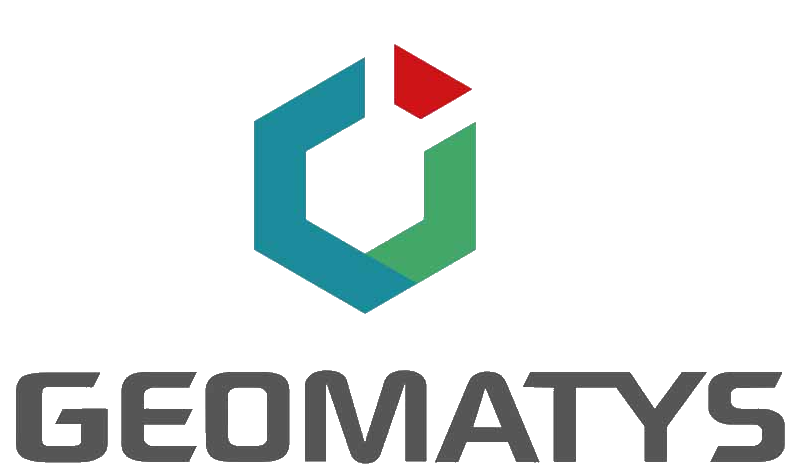
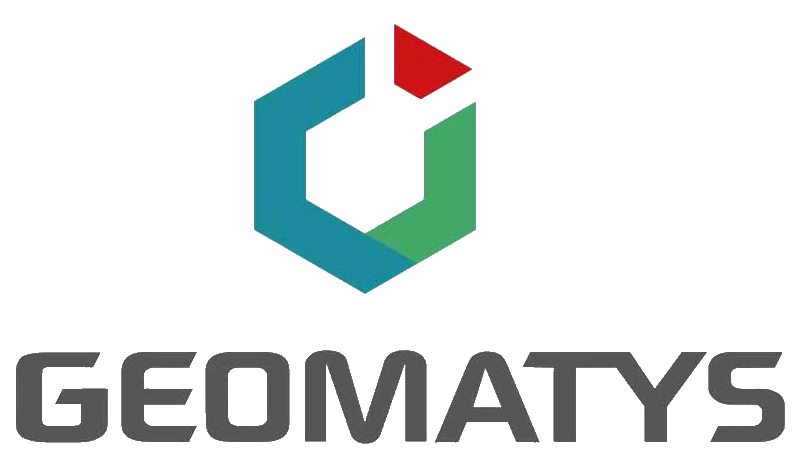
mini-fix: centrage d'une div (entre autres)

diff --git a/index.html b/index.html
@@ -35,7 +35,7 @@
   <main id="bg-acceuil">
     <div class="box extra-tp-margin">
       <h1 class="no-bt-margin">Portfolio 2024/2026 - Paulo Moreira</h1>
-      <span class="italic trans">dernière mise à jour le 24 octobre 2025</span>
+      <span class="italic trans">dernière mise à jour le 9 novembre 2025</span>
       <hr class="dashed">
       <div class="horizontal">
         <div>
@@ -59,15 +59,15 @@
       <hr class="dashed">
       <h2>Expérience Professionnelle</h2>
       <div class="horizontal job">
+        <a href="nuisance.html">
+          <p><b>Stage (principalement) en JS chez Geomatys</b>
+          <span class="trans-plus"><br>du 03/02/2025 au 28/03/2025</span></p>
+          <p>Amélioration de la partie cliente (en JavaScript sous le Framework VueJs) <br>
+          du portail sur la nuisance moustique, avec adaption de l’API java.</p>
+        </a>
         <div>
-          <a href="nuisance.html">
-            <p><b>Stage (principalement) en JS chez Geomatys</b>
-            <span class="trans-plus"><br>du 03/02/2025 au 28/03/2025</span></p>
-            <p>Amélioration de la partie cliente (en JavaScript sous le Framework VueJs) <br>
-            du portail sur la nuisance moustique, avec adaption de l’API java.</p>
-          </a>
+          <a href="https://www.geomatys.com/"><img class="pic reduisible-thiner" src="images/geomatys.webp" alt="logo-geomatys"></a>
         </div>
-        <a href="https://www.geomatys.com/"><img class="pic reduisible-thiner" src="images/geomatys.webp" alt="logo-geomatys"></a>
       </div>
 
       <hr class="dashed">

diff --git a/css/style.css b/css/style.css
@@ -78,6 +78,12 @@ a:hover, .mini-logo:hover, #reals:hover, nav img:hover {
     overflow: hidden;
 }
 
+.job > div {
+    display: flex;
+    justify-content: center;
+    align-items: center;
+}
+
 .horizontal p {
     width: 100%;
 }
